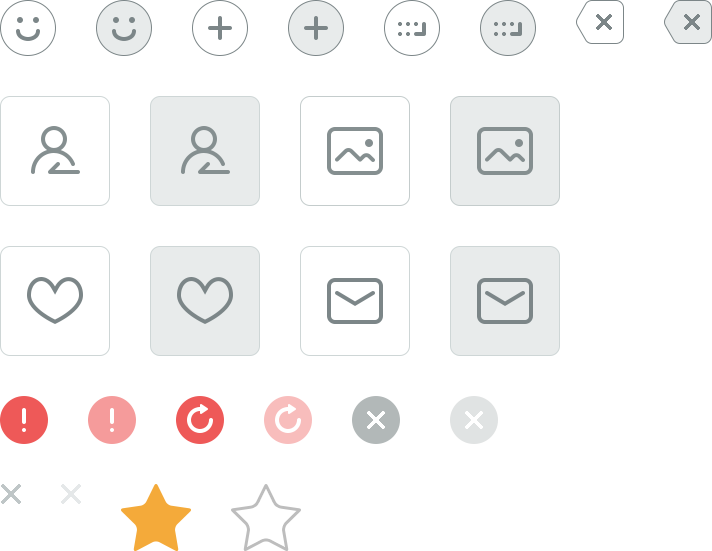
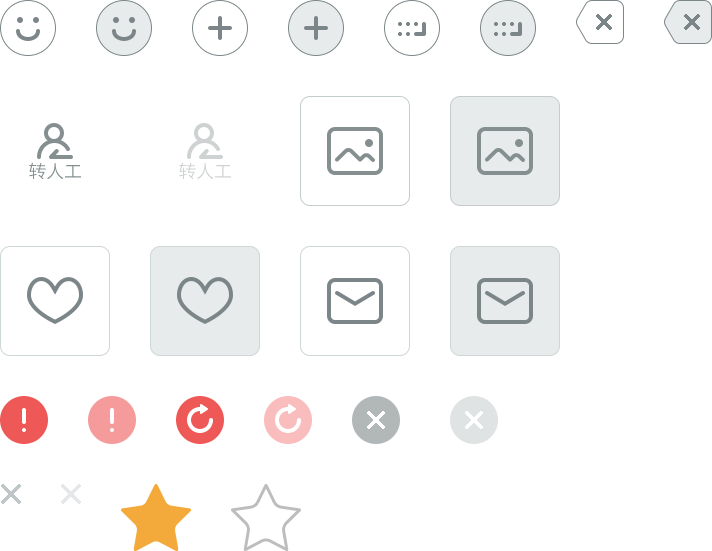
deve

Changed region(s): [[0.2472, 0.216, 0.3399, 0.3394], [0.0309, 0.216, 0.1236, 0.3394]]

diff --git a/wap/js/sendArea/index.js b/wap/js/sendArea/index.js
@@ -44,24 +44,24 @@ function TextArea(window) {
             transferFlag=1;
             $(".qqFaceTip").removeClass("activehide");
             //上传图片按钮
-            $uploadImg.show();
+            $uploadImg.removeClass("activehide");
             //满意度评价
-            $satisfaction.show();
+            $satisfaction.removeClass("activehide");
             //提示文本
-            //$textarea.attr("placeholder","当前是人工")
+            $textarea.attr("placeholder","")
         }else if(currentStatus == 'robot'){
             transferFlag=0;
-            $uploadImg.hide();
-            $satisfaction.show();
-            $textarea.attr("placeholder","点击“+”号可转人工客服")
+            $uploadImg.addClass("activehide");
+            $satisfaction.removeClass("activehide");
+            $textarea.attr("placeholder","请简要描述您的问题")
         }
     };
     var changeStatusHandler=function(data){
         //hide,转人工按钮隐藏,当前为人工模式
         if(data.action=="hide"){
-            $artificial.hide();
+            $artificial.addClass("activehide");
         }else{
-            $artificial.show();
+            $artificial.removeClass("activehide");
         }
     }
     //用户输入，工作台提示
@@ -98,12 +98,10 @@ function TextArea(window) {
             $(".add").addClass("activehide")
             $(".addhover").addClass("activehide")
             hideChatAreaHandler();
-            //$textarea.css("width","78%");
         } else {
             $sendBtn.addClass("activehide")
             hideChatAreaHandler();
             $(".add").removeClass("activehide")
-            //$textarea.css("width","83%");
         }
         if(document.activeElement.id=="js-textarea"){
             focusStatus=true;
@@ -115,12 +113,10 @@ function TextArea(window) {
             $sendBtn.removeClass("activehide")
             $(".add").addClass("activehide")
             $(".addhover").addClass("activehide")
-            //$textarea.css("width","67%");
         } else {
             $sendBtn.addClass("activehide")
             hideChatAreaHandler();
             $(".add").removeClass("activehide")
-           // $textarea.css("width","83%");
             $textarea.blur();
             $textarea.focus();
         }
@@ -486,10 +482,28 @@ function TextArea(window) {
             autoSizePhone();
         }
     };
+    var textareaMaxlen = function () {
+        // 限制留言框最大字符数为200
+        document.getElementById("js-textarea").addEventListener('input', function () {
+            //console.log($(".js-textarea").text().length)
+            if ($textarea.text().length > 1024) {
+                $textarea.text($textarea.text().substring(0,1024))
+            }
+        }, false);
+    };
    /* var hideplaceholder=function(){
         $placeholder.hide();
         $textarea.focus();
     };*/
+    var filterImage=function(e){
+        console.log(e.srcElement.innerText);
+        //如果为空 说明粘的是图片
+        /*var innerText = e.srcElement.innerText;
+        if(innerText==""){
+            $textarea.html("");
+        }*/
+       
+    };
     var parseDOM = function() {
         $chatArea=$(".js-chatArea");
         $sendBtn = $(".js-sendBtn");
@@ -549,8 +563,9 @@ function TextArea(window) {
         $newMessage.on("click",newMessage);
         //评价弹窗
         $satisfaction.on("click",evaluateHandler);
-        //点击placeholder消失
-        //$placeholder.on("click",hideplaceholder)
+        //过滤粘贴板中的图片
+        $textarea.on("paste",filterImage);
+        
     };
     var onEmotionClickHandler = function() {
        listener.trigger('sendArea.faceShow');
@@ -570,6 +585,7 @@ function TextArea(window) {
         $(".qqFaceTip").addClass("activehide");
         $(".qqFaceTiphover").addClass("activehide");
         $sendBtn.addClass("activehide");
+   
     };
     (function(){
         parseDOM();
@@ -577,6 +593,8 @@ function TextArea(window) {
         listener.on("core.buttonchange",changeStatusHandler);
         //改变当前状态
         listener.on("core.statechange",statusHandler);
+         //设置输入框最大输入字符
+        textareaMaxlen();
         
     })();
     listener.on("core.onload", function(data) {

diff --git a/wap/js/sendArea/evaluate.js b/wap/js/sendArea/evaluate.js
@@ -25,6 +25,14 @@ function evaluate(currentStatus,global) {
     var toggleActiveRepeat=function(){
         $(this).toggleClass("active")
     };
+    var textareaMaxlen = function (targetID, maxLen) {
+        // 限制留言框最大字符数为200
+        document.getElementById(targetID).addEventListener('input', function () {
+            if (this.value.length > maxLen) {
+                this.value = this.value.substr(0, maxLen);
+            }
+        }, false);
+    };
     var sobotSetInnerStepOneHtml = function() {
         Alert = new Alert({
             'title' : '机器人是否解决了您的问题',
@@ -35,9 +43,11 @@ function evaluate(currentStatus,global) {
             }
         });
         Alert.show();
-    }
+    };
     //自定义html添加到弹窗中
     var sobotSetInnerStepTwoHtml = function() {
+        //先将第一步弹窗移除
+        $(".js-modeDialog").remove();
         Alert.show();
         var conf={};
         var _html = doT.template(template.sobotEvaluate_selfHtml)(conf);
@@ -48,11 +58,8 @@ function evaluate(currentStatus,global) {
         $(".wether span").on("click",toggleActive);
         $(".situation span").on("click",toggleActiveRepeat);
         $(".submit").on("click",EvaluateAjaxHandler);
-        $(".js-evaluateInner").keydown(function(){
-            if($(this).val().length>200){
-                $(this).val($(this).val().substring(0,200))
-            }
-        })
+        textareaMaxlen("js-evaluateInner",200);
+        
     };
     var humanSetInnerStepOneHtml=function(){
         Alert = new Alert({
@@ -159,11 +166,7 @@ function evaluate(currentStatus,global) {
         $(".wether span").on("click",toggleActive);
         $(".situation span").on("click",toggleActiveRepeat);
         $(".js-submit").on("click",EvaluateAjaxHandler);
-         $(".js-evaluateInner").keydown(function(){
-            if($(this).val().length>200){
-                $(this).val($(this).val().substring(0,200))
-            }
-        })
+        textareaMaxlen("js-evaluateInner",200);
     };
     var EvaluateAjaxHandler=function(){
             remark=$(".js-evaluateInner").val();

diff --git a/wap/css/textArea.css b/wap/css/textArea.css
@@ -89,10 +89,17 @@ li {
     text-align: center;
     margin-right: -4px;
 }
-.add,.addhover,.qqFaceTip,.qqFaceTiphover,.keyboard,.addList .uploadImgbg,.addList .artificialbg,.addList .satisfactionbg,.addList .leaveMessagebg{
+.add,.addhover,.qqFaceTip,.qqFaceTiphover,.keyboard,.addList .uploadImgbg,.artificial,.addList .satisfactionbg,.addList .leaveMessagebg{
     background-image: url(../images/icoGroup2X.png);
     background-repeat:no-repeat;
     background-size:356px 276px;
+}
+.artificial {
+    display:inline-block;
+    height: 32px;
+    width: 45px;
+    margin-left:-9px;
+    background-position:-5px -61px;
 }
 .add {
     display:inline-block;
@@ -184,12 +191,12 @@ li {
 .addList .uploadImgbg:hover{
     background-position:-217px -44px;
 }
-.addList .artificialbg{
+/* .addList .artificialbg{
     background-position: 7px -44px;
 }
 .addList .artificialbg:hover{
     background-position: -67px -44px;
-}
+} */
 .addList .satisfactionbg{
     background-position:8px -120px;
 }
@@ -304,7 +311,7 @@ iphone6
 } */
 /* iphone6 Plus */
 @media (min-device-width : 414px){
-    .add,.addhover,.qqFaceTip,.qqFaceTiphover,.keyboard,.addList .uploadImgbg,.addList .artificialbg,.addList .satisfactionbg,.addList .leaveMessagebg{
+    .add,.addhover,.qqFaceTip,.qqFaceTiphover,.keyboard,.addList .uploadImgbg,.artificial,.addList .satisfactionbg,.addList .leaveMessagebg{
         background-image: url(../images/icoGroup3X.png);
         background-size:356px 275px;
     }

diff --git a/wap/index.html b/wap/index.html
@@ -86,6 +86,7 @@
             <div id="chatArea" class="chatArea js-chatArea hideChatArea">
                 <div class="js-keepSession">
                     <div class="sendarea">
+                        <span class="artificial js-artificial"></span>
                         <div id="js-textarea" class="textarea js-textarea" placeholder="" contenteditable="true"></div>
                         <!-- <span class="placeholder js-placeholder"></span> -->
                         <span class="qqFaceTip js-emotion" data-id="#chatEmotion"></span>
@@ -101,12 +102,12 @@
                     </div>
                     <div id="chatAdd" class="chatAdd js-chatAdd">
                         <ul class="addList js-addList">
-                            <li class="artificial js-artificial">
+                            <!-- <li class="artificial js-artificial">
                                 <i class="artificialbg"></i>
                                 <p>
                                     转人工客服
                                 </p>
-                            </li>
+                            </li> -->
                             <li class="uploadImg js-uploadImg">
                                 <i class="uploadImgbg"></i>
                                 <input class="js-upload" type="file">

diff --git a/wap/js/sendArea/template.js b/wap/js/sendArea/template.js
@@ -10,7 +10,7 @@ var sobotEvaluate_selfHtml = '<div class="evaluate js-evaluate">'+
 									'<span class="tag3">一问三不知</span>'+
 									'<span class="tag4" style="margin-right:0">不礼貌</span>'+
 								'</div>'+
-								'<textarea class="js-evaluateInner" placeholder="欢迎给我们的服务提建议"></textarea>'+
+								'<textarea id="js-evaluateInner" class="js-evaluateInner" placeholder="欢迎给我们的服务提建议"></textarea>'+
 								'<a class="submit js-submit" href="#">提交评价</a>'+
 							 '</div>';
 var humanOne_selfHtml = '<div class="evaluate js-evaluate">'+
@@ -41,7 +41,7 @@ var humanTwo_selfHtml = '<div class="evaluate js-evaluate">'+
 								'<span class="tag3">一问三不知</span>'+
 								'<span class="tag4" style="margin-right:0">不礼貌</span>'+
 							'</div>'+
-							'<textarea class="js-evaluateInner" placeholder="欢迎给我们的服务提建议"></textarea>'+
+							'<textarea id="js-evaluateInner" class="js-evaluateInner" placeholder="欢迎给我们的服务提建议"></textarea>'+
 							'<a class="submit js-submit" href="#">提交评价</a>'+
 						'</div>';
 var leaveMessageBtn= '<a class="js-leaveMsgBtn" href="'+

diff --git a/wap/js/listMsg/syshandler.js b/wap/js/listMsg/syshandler.js
@@ -80,7 +80,6 @@ var SysmsgHandler = function(msgBind,myScroll){
     },
     //系统消息显示处理
     onSysMsgShow:function(msg,status,sysMsgKeyword,sysMsgManager){
-      $('.js-input205').remove();//正在输入class 清除掉所有正在输入
       //生成时间戳
       var tp = +new Date();
       var msgTmp;
@@ -88,8 +87,8 @@ var SysmsgHandler = function(msgBind,myScroll){
       if(sysMsgKeyword.indexOf(status)>=0){
         sysMsgManager.push(tp);//用于系统提示判断
       }else if(status ==205){
-        //正在输入
-        msgTmp='js-input205';
+        msgTmp='input205';
+        var $msgInput = $('.input205').remove();//正在输入class
       }
       var comf = $.extend({
         sysMsg:msg,
@@ -103,7 +102,7 @@ var SysmsgHandler = function(msgBind,myScroll){
     //正在输入处理
     onBeingInput:function(){
       var _t = setInterval(function(){
-          $('.js-input205').remove();
+          $('.input205').remove();
           myScroll.refresh();
       },5*1000);//每隔5秒处理正在输入提示消息
     },

diff --git a/wap/js/util/dialog.js b/wap/js/util/dialog.js
@@ -64,9 +64,6 @@ function Dialog(spec) {
         //灰层要和内容分开，否则输入框弹起，内容不跟随弹起，导致文本被键盘遮住
         $(document.body).append($layer);
         $(document.body).append($AlertTemplate_html);
-        /*$(".js-modeDialog").animate({
-            'opacity' : 1
-        },300);*/
         bindListener();
         position();
     };
